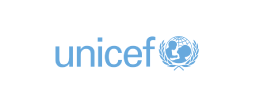
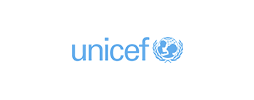
Updated Clients UNICEF

Changed region(s): [[0.1929, 0.36, 0.7992, 0.72]]

diff --git a/_referencer/2016-03-18-unicef.md b/_referencer/2016-03-18-unicef.md
@@ -1,5 +1,5 @@
 ---
-logo: /images/uploads/unicef_logo.png
+logo: /images/uploads/unicef.png
 title: UNICEF
 cmsUserSlug: ""
 date: 2016-03-18T00:00:00.000Z
